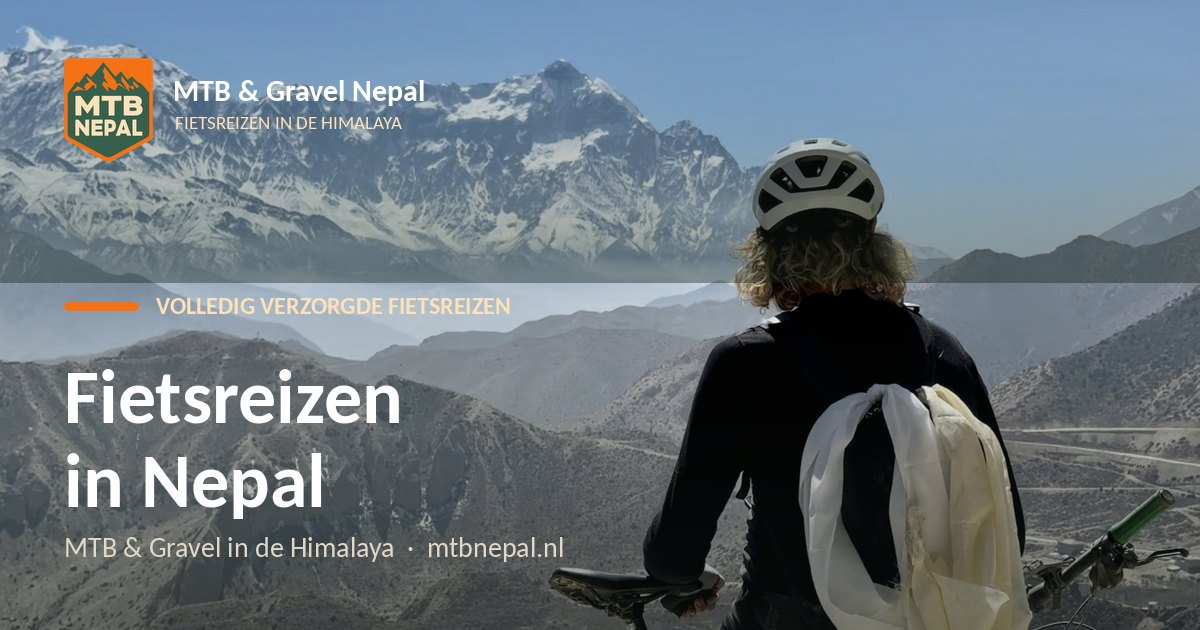
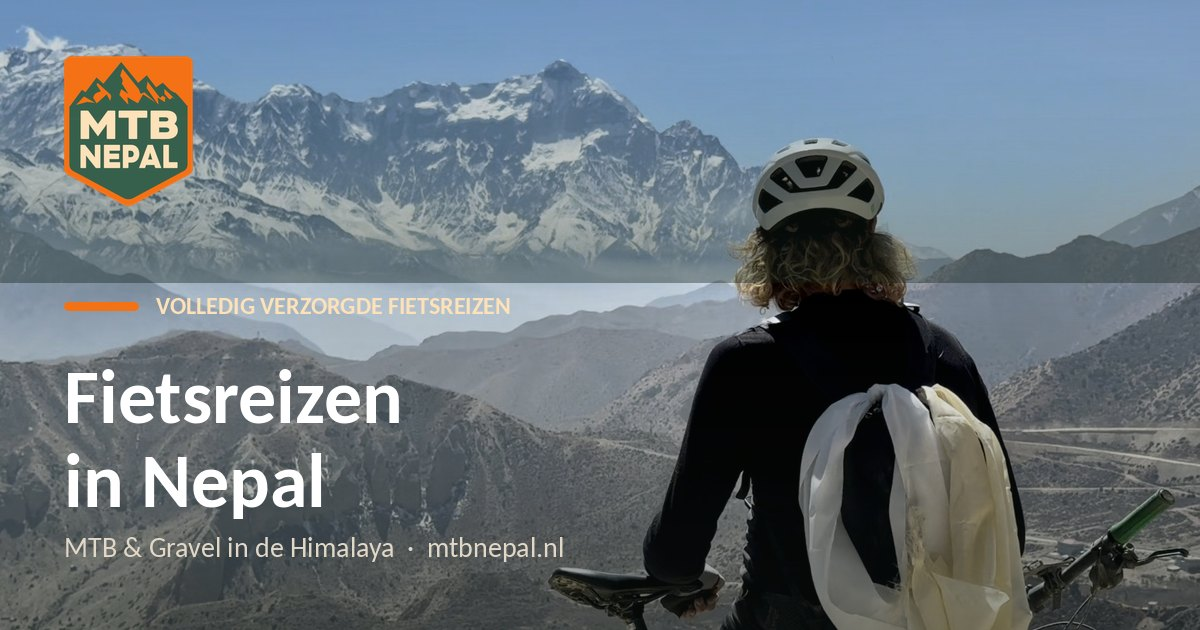
Add files via upload

Changed region(s): [[0.0308, 0.0603, 0.37, 0.3317]]

diff --git a/kathmandu-vallei.html b/kathmandu-vallei.html
@@ -136,7 +136,6 @@
         </div>
         <a href="index.html#data">Data</a>
         <a href="index.html#conditie">Fitheid</a>
-        <a href="index.html#videos">Video's</a>
         <a href="index.html#fotoalbum">Fotoalbum</a>
         <a href="index.html#ervaringen">Ervaringen</a>
         <a href="index.html#over">Over</a>
@@ -232,19 +231,19 @@
             allowfullscreen></iframe>
         </div>
         <ol class="playlist">
-          <li><a href="https://www.youtube.com/playlist?list=PLqtIkDXtgbHoWTdd78sfOBwMpc2Qba-na"><span class="num">1</span> Mountain biking in Nepal day 1 and 2 <span class="dur">4:30</span></a></li>
-          <li><a href="https://www.youtube.com/playlist?list=PLqtIkDXtgbHoWTdd78sfOBwMpc2Qba-na"><span class="num">2</span> Mountain biking in Nepal day 3 <span class="dur">3:52</span></a></li>
-          <li><a href="https://www.youtube.com/playlist?list=PLqtIkDXtgbHoWTdd78sfOBwMpc2Qba-na"><span class="num">3</span> Mountainbiken in Nepal day 4 and 5 <span class="dur">5:31</span></a></li>
-          <li><a href="https://www.youtube.com/playlist?list=PLqtIkDXtgbHoWTdd78sfOBwMpc2Qba-na"><span class="num">4</span> Mountain biking in Nepal day 6 <span class="dur">5:13</span></a></li>
-          <li><a href="https://www.youtube.com/playlist?list=PLqtIkDXtgbHoWTdd78sfOBwMpc2Qba-na"><span class="num">5</span> Mountainbiking in Nepal evaluation <span class="dur">3:06</span></a></li>
-          <li><a href="https://www.youtube.com/playlist?list=PLqtIkDXtgbHoWTdd78sfOBwMpc2Qba-na"><span class="num">6</span> MTB Nepal 2023 dag 5 en 6 <span class="dur">25:10</span></a></li>
-          <li><a href="https://www.youtube.com/playlist?list=PLqtIkDXtgbHoWTdd78sfOBwMpc2Qba-na"><span class="num">7</span> MTB Nepal 2023 samenvatting <span class="dur">1:54</span></a></li>
-          <li><a href="https://www.youtube.com/playlist?list=PLqtIkDXtgbHoWTdd78sfOBwMpc2Qba-na"><span class="num">8</span> Pashupatinath Tempel, Kathmandu <span class="dur">0:36</span></a></li>
-          <li><a href="https://www.youtube.com/playlist?list=PLqtIkDXtgbHoWTdd78sfOBwMpc2Qba-na"><span class="num">9</span> Ga mee op Cultuur en Mountainbike Reis in Nepal <span class="dur">1:31</span></a></li>
+          <li><a href="https://www.youtube.com/playlist?list=PLqtIkDXtgbHoWTdd78sfOBwMpc2Qba-na" target="_blank" rel="noopener"><span class="num">1</span> Mountain biking in Nepal day 1 and 2 <span class="dur">4:30</span></a></li>
+          <li><a href="https://www.youtube.com/playlist?list=PLqtIkDXtgbHoWTdd78sfOBwMpc2Qba-na" target="_blank" rel="noopener"><span class="num">2</span> Mountain biking in Nepal day 3 <span class="dur">3:52</span></a></li>
+          <li><a href="https://www.youtube.com/playlist?list=PLqtIkDXtgbHoWTdd78sfOBwMpc2Qba-na" target="_blank" rel="noopener"><span class="num">3</span> Mountainbiken in Nepal day 4 and 5 <span class="dur">5:31</span></a></li>
+          <li><a href="https://www.youtube.com/playlist?list=PLqtIkDXtgbHoWTdd78sfOBwMpc2Qba-na" target="_blank" rel="noopener"><span class="num">4</span> Mountain biking in Nepal day 6 <span class="dur">5:13</span></a></li>
+          <li><a href="https://www.youtube.com/playlist?list=PLqtIkDXtgbHoWTdd78sfOBwMpc2Qba-na" target="_blank" rel="noopener"><span class="num">5</span> Mountainbiking in Nepal evaluation <span class="dur">3:06</span></a></li>
+          <li><a href="https://www.youtube.com/playlist?list=PLqtIkDXtgbHoWTdd78sfOBwMpc2Qba-na" target="_blank" rel="noopener"><span class="num">6</span> MTB Nepal 2023 dag 5 en 6 <span class="dur">25:10</span></a></li>
+          <li><a href="https://www.youtube.com/playlist?list=PLqtIkDXtgbHoWTdd78sfOBwMpc2Qba-na" target="_blank" rel="noopener"><span class="num">7</span> MTB Nepal 2023 samenvatting <span class="dur">1:54</span></a></li>
+          <li><a href="https://www.youtube.com/playlist?list=PLqtIkDXtgbHoWTdd78sfOBwMpc2Qba-na" target="_blank" rel="noopener"><span class="num">8</span> Pashupatinath Tempel, Kathmandu <span class="dur">0:36</span></a></li>
+          <li><a href="https://www.youtube.com/playlist?list=PLqtIkDXtgbHoWTdd78sfOBwMpc2Qba-na" target="_blank" rel="noopener"><span class="num">9</span> Ga mee op Cultuur en Mountainbike Reis in Nepal <span class="dur">1:31</span></a></li>
         </ol>
       </div>
       <div class="btn-row">
-        <a class="btn btn--dark" href="https://www.youtube.com/@michelgebbinck">Bekijk het YouTube-kanaal</a>
+        <a class="btn btn--dark" href="https://www.youtube.com/@michelgebbinck" target="_blank" rel="noopener">Bekijk het YouTube-kanaal</a>
       </div>
     </div>
   </section>

diff --git a/index.html b/index.html
@@ -171,7 +171,6 @@
         </div>
         <a href="#data">Data</a>
         <a href="#conditie">Fitheid</a>
-        <a href="#videos">Video's</a>
         <a href="#fotoalbum">Fotoalbum</a>
         <a href="#ervaringen">Ervaringen</a>
         <a href="#over">Over</a>
@@ -216,7 +215,7 @@
       <div class="section-head">
         <span class="eyebrow">De reizen</span>
         <h2>Kies je avontuur</h2>
-        <p class="lead">Je kunt kiezen uit twee verschillende fietsreizen, ieder met een eigen accent. Beide reizen lopen parallel aan een yogareis van Marion Werger — zo kun je samen met vrienden of je partner naar Nepal reizen, ieder met je eigen accent van yoga of mountainbiken. Maar je kunt ook gewoon alleen of met je fietsvrienden mee.</p>
+        <p class="lead">Je kunt kiezen uit twee verschillende fietsreizen, ieder met een eigen accent. Beide reizen lopen parallel aan een <a href="https://marionwerger.nl/yogareis-nepal/" target="_blank" rel="noopener">yogareis van Marion Werger</a> — zo kun je samen met vrienden of je partner naar Nepal reizen, ieder met je eigen accent van yoga of mountainbiken. Maar je kunt ook gewoon alleen of met je fietsvrienden mee.</p>
       </div>
 
       <article class="trip">
@@ -379,41 +378,6 @@
     </div>
   </section>
 
-  <!-- VIDEOS -->
-  <section class="section" id="videos">
-    <div class="wrap">
-      <div class="section-head">
-        <span class="eyebrow">Video's</span>
-        <h2>Video's uit Nepal</h2>
-        <p class="lead">Ga mee op de Cultuur en Mountainbike Reis rondom de Kathmandu vallei. De complete videoserie staat op het YouTube-kanaal van Michel Gebbinck.</p>
-      </div>
-      <div class="videos">
-        <div class="player">
-          <iframe
-            src="https://www.youtube-nocookie.com/embed/videoseries?list=PLqtIkDXtgbHoWTdd78sfOBwMpc2Qba-na&amp;autoplay=1&amp;mute=1&amp;playsinline=1&amp;rel=0&amp;modestbranding=1"
-            title="Mountainbiken in Nepal — videoserie"
-            loading="lazy"
-            allow="accelerometer; autoplay; clipboard-write; encrypted-media; gyroscope; picture-in-picture; web-share"
-            referrerpolicy="strict-origin-when-cross-origin"
-            allowfullscreen></iframe>
-        </div>
-        <ol class="playlist">
-          <li><a href="https://www.youtube.com/playlist?list=PLqtIkDXtgbHoWTdd78sfOBwMpc2Qba-na"><span class="num">1</span> Mountain biking in Nepal day 1 and 2 <span class="dur">4:30</span></a></li>
-          <li><a href="https://www.youtube.com/playlist?list=PLqtIkDXtgbHoWTdd78sfOBwMpc2Qba-na"><span class="num">2</span> Mountain biking in Nepal day 3 <span class="dur">3:52</span></a></li>
-          <li><a href="https://www.youtube.com/playlist?list=PLqtIkDXtgbHoWTdd78sfOBwMpc2Qba-na"><span class="num">3</span> Mountainbiken in Nepal day 4 and 5 <span class="dur">5:31</span></a></li>
-          <li><a href="https://www.youtube.com/playlist?list=PLqtIkDXtgbHoWTdd78sfOBwMpc2Qba-na"><span class="num">4</span> Mountain biking in Nepal day 6 <span class="dur">5:13</span></a></li>
-          <li><a href="https://www.youtube.com/playlist?list=PLqtIkDXtgbHoWTdd78sfOBwMpc2Qba-na"><span class="num">5</span> Mountainbiking in Nepal evaluation <span class="dur">3:06</span></a></li>
-          <li><a href="https://www.youtube.com/playlist?list=PLqtIkDXtgbHoWTdd78sfOBwMpc2Qba-na"><span class="num">6</span> MTB Nepal 2023 dag 5 en 6 <span class="dur">25:10</span></a></li>
-          <li><a href="https://www.youtube.com/playlist?list=PLqtIkDXtgbHoWTdd78sfOBwMpc2Qba-na"><span class="num">7</span> MTB Nepal 2023 samenvatting <span class="dur">1:54</span></a></li>
-          <li><a href="https://www.youtube.com/playlist?list=PLqtIkDXtgbHoWTdd78sfOBwMpc2Qba-na"><span class="num">8</span> Pashupatinath Tempel, Kathmandu <span class="dur">0:36</span></a></li>
-          <li><a href="https://www.youtube.com/playlist?list=PLqtIkDXtgbHoWTdd78sfOBwMpc2Qba-na"><span class="num">9</span> Ga mee op Cultuur en Mountainbike Reis in Nepal <span class="dur">1:31</span></a></li>
-        </ol>
-      </div>
-      <div class="btn-row">
-        <a class="btn btn--dark" href="https://www.youtube.com/@michelgebbinck">Bekijk het YouTube-kanaal</a>
-      </div>
-    </div>
-  </section>
 
   <!-- FOTOALBUM -->
   <section class="section section--alt" id="fotoalbum">

diff --git a/videos/index.html b/videos/index.html
@@ -3,8 +3,8 @@
 <head>
 <meta charset="utf-8">
 <meta name="viewport" content="width=device-width, initial-scale=1">
-<meta http-equiv="refresh" content="0; url=../#videos">
-<link rel="canonical" href="https://www.mtbnepal.nl/#videos">
+<meta http-equiv="refresh" content="0; url=../kathmandu-vallei.html#video">
+<link rel="canonical" href="https://www.mtbnepal.nl/kathmandu-vallei.html#video">
 <meta name="robots" content="noindex, follow">
 <title>Video's — MTB &amp; Gravel Nepal</title>
 <style>
@@ -18,7 +18,7 @@ p{max-width:44ch;line-height:1.6}
   <div>
     <h1>Video's</h1>
     <p>Deze pagina is verhuisd. Je wordt automatisch doorgestuurd.</p>
-    <p><a href="../#videos">Klik hier als er niets gebeurt</a></p>
+    <p><a href="../kathmandu-vallei.html#video">Klik hier als er niets gebeurt</a></p>
   </div>
 </body>
 </html>

diff --git a/upper-mustang.html b/upper-mustang.html
@@ -136,7 +136,6 @@
         </div>
         <a href="index.html#data">Data</a>
         <a href="index.html#conditie">Fitheid</a>
-        <a href="index.html#videos">Video's</a>
         <a href="index.html#fotoalbum">Fotoalbum</a>
         <a href="index.html#ervaringen">Ervaringen</a>
         <a href="index.html#over">Over</a>
